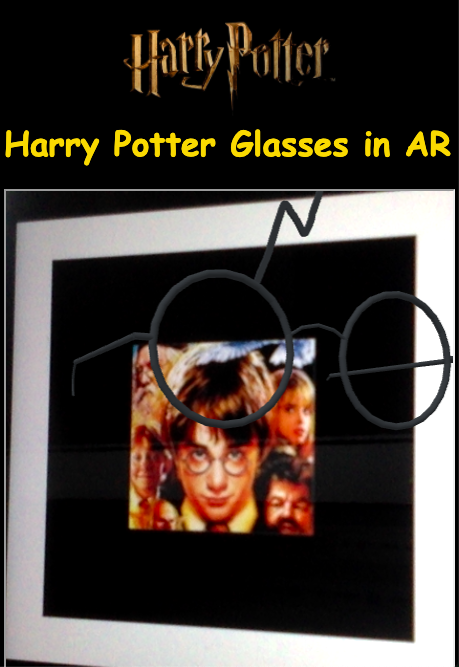
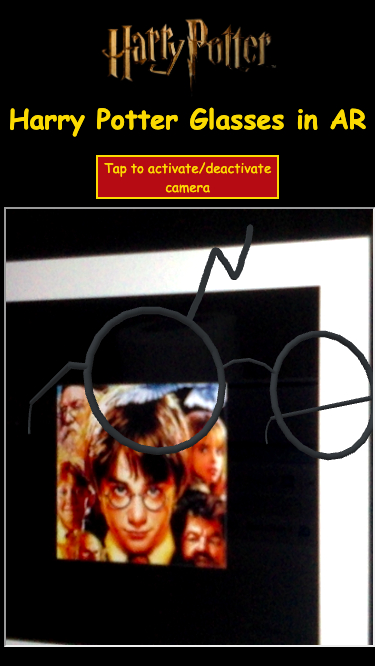
modified index.html

diff --git a/index.html b/index.html
@@ -1,7 +1,7 @@
 <!DOCTYPE html>
 <html>
     <head>
-        <title>Ebmedded AR.js Experience through echoAR</title>
+        <title>Harry Potter AR Experience through echoAR</title>
         <style>
             #background {
                 top: 0;
@@ -16,24 +16,56 @@
                 position: relative;
                 color: rgb(248,213,0);
                 text-align: center;
-                font-size: 5vh;
-                    font-family: "Comic Sans MS", cursive, sans-serif;
+                font-size: 4vh;
+		            font-family: "Comic Sans MS", cursive, sans-serif;
                 margin-top: 0;
             }
             iframe {
                 position: relative;
                 width: 100%;
-                height: 75vh;
+                height: 65vh;
+            }
+            #logo {
+                display: block;
+                width: 50%;
+                margin-left: auto;
+                margin-right: auto;
+            }
+            #glassesButton {
+                display: block;
+                width: 50%;
+                margin-left: auto;
+                margin-right: auto;
+                background-color: #A93226;
+                color: rgb(248,213,0);
+                font-family: "Comic Sans MS", cursive, sans-serif;
+                border: 2px solid rgb(248,213,0);
+                margin-bottom: 8px;
             }
         </style>
     </head>
     <body>
-        <div id="background"></div>
-        <img src = "harry-potter-logo.jpg"
-             alt="Harry Potter Logo" style="display:block;width:50%;margin-left:auto;margin-right:auto;">
+	    <div id="background"></div>
+        <img id="logo" src="harry-potter-logo.jpg"
+             alt="Harry Potter Logo">
         <h1>Harry Potter Glasses in AR</h1>
-        <iframe src="https://console.echoAR.xyz/arjs?key=<YOUR_API_KEY>&entry=<ENTRY-ID>"
-                allow="camera *">
+
+        <button id="glassesButton">
+          Tap to activate/deactivate camera
+        </button>
+        <iframe id="glasses" allow="camera *">
         </iframe>
+      
+      <script>
+        document.getElementById("glassesButton").onclick = function() {
+          var glasses = document.getElementById('glasses');
+          if(glasses.hasAttribute("src")){
+            glasses.removeAttribute("src");
+          }else{
+            glasses.src = 'https://console.echoAR.xyz/arjs?key=<YOUR_API_KEY>&entry=<ENTRY-ID>';
+          }
+        }
+      </script>
+
     </body>
 </html>
